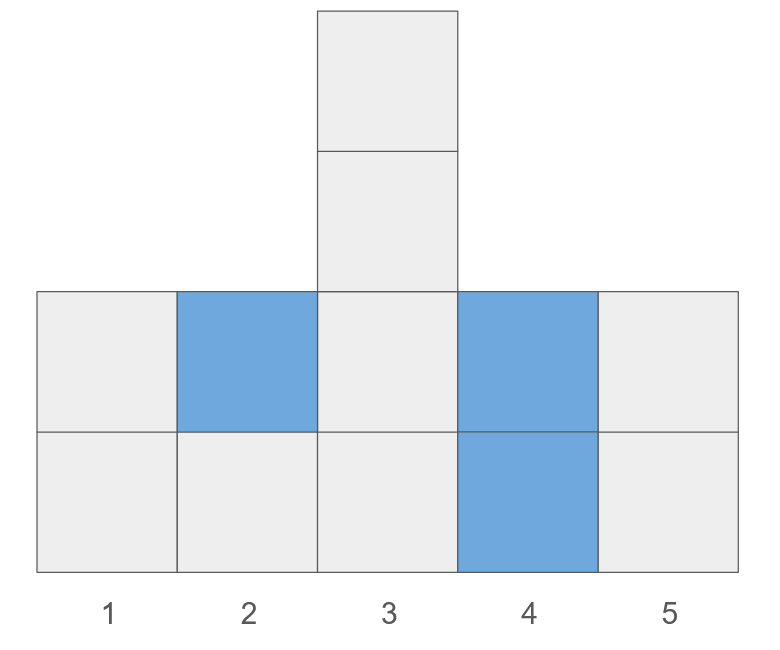
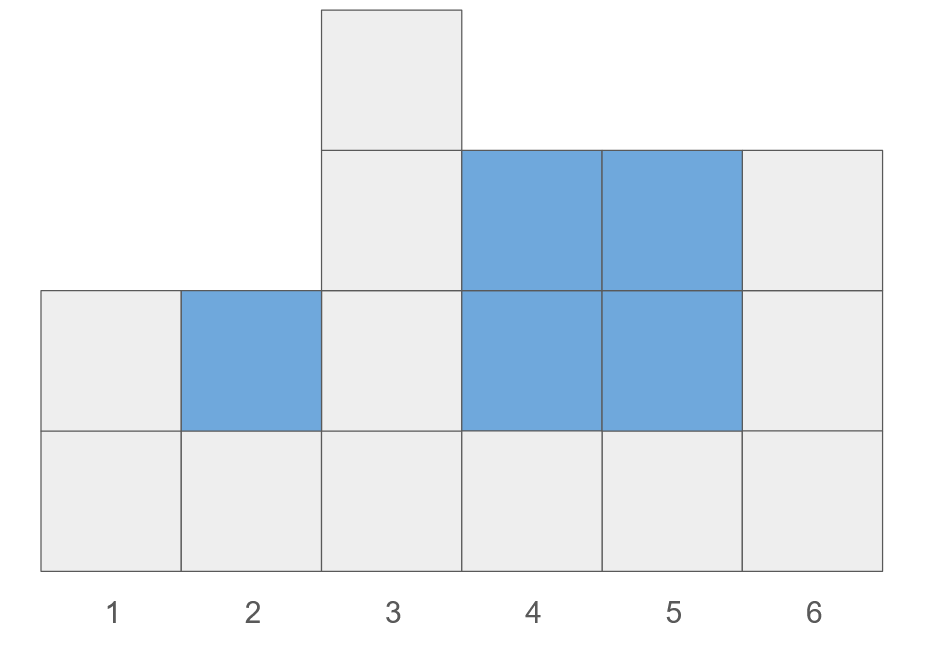
[slottsmur] fix invalid testdata + sample

diff --git a/online/slottsmur/problem_statement/problem.sv.tex b/online/slottsmur/problem_statement/problem.sv.tex
@@ -62,20 +62,20 @@ För att få poäng för en grupp så måste du klara alla testfall i gruppen.
 \end{tabular}
 
 \section*{Förklaring av exempelfall 1}
-Vid första frågan ombes vi att beräkna mängden vatten som samlas om vi river allt utanför $[1,5]$. Eftersom
-$[1,5]$ utgör hela muren rivs inget.
+Vid första frågan ombes vi att beräkna mängden vatten som samlas om vi river allt utanför $[1,6]$. Eftersom
+$[1,6]$ utgör hela muren, så rivs inget.
 \begin{center}
   \includegraphics[scale=0.2]{mur2.png}
 \end{center}
 
-Vid andra frågan undrar Slottsägaren vad som händer om vi river ändarna av muren.
-De murbitarna som hade rivits markeras med mörgrått. Rivningen hade lett till att allt vatten rinner av.
+Vid andra frågan undrar Slottsägaren vad som händer om en del av den högra änden av muren.
+De murbitarna som hade rivits markeras med mörgrått. 
 
 \begin{center}
   \includegraphics[scale=0.2]{mur3.png}
 \end{center}
 
-Vid tredje och fjärde frågan höjs en del av muren. Dessa påverkar femte frågan, som ser ut som följande.
+Vid tredje frågan höjs en del av muren. Detta påverkar den fjärde frågan, som ser ut som följande.
 
 \begin{center}
   \includegraphics[scale=0.2]{mur4.png}

diff --git a/online/slottsmur/data/gen_pyramid.py b/online/slottsmur/data/gen_pyramid.py
@@ -51,6 +51,7 @@ for i in range(q):
         value = 1
         if pos != n:
             value = randint(1, math.floor(1.2*abs(heights[pos]-heights[pos-1])+1))
+        value = min(int(1e9)-heights[pos-1], value)
         heights[pos-1] += value
         print(2, pos, value)
     else:
